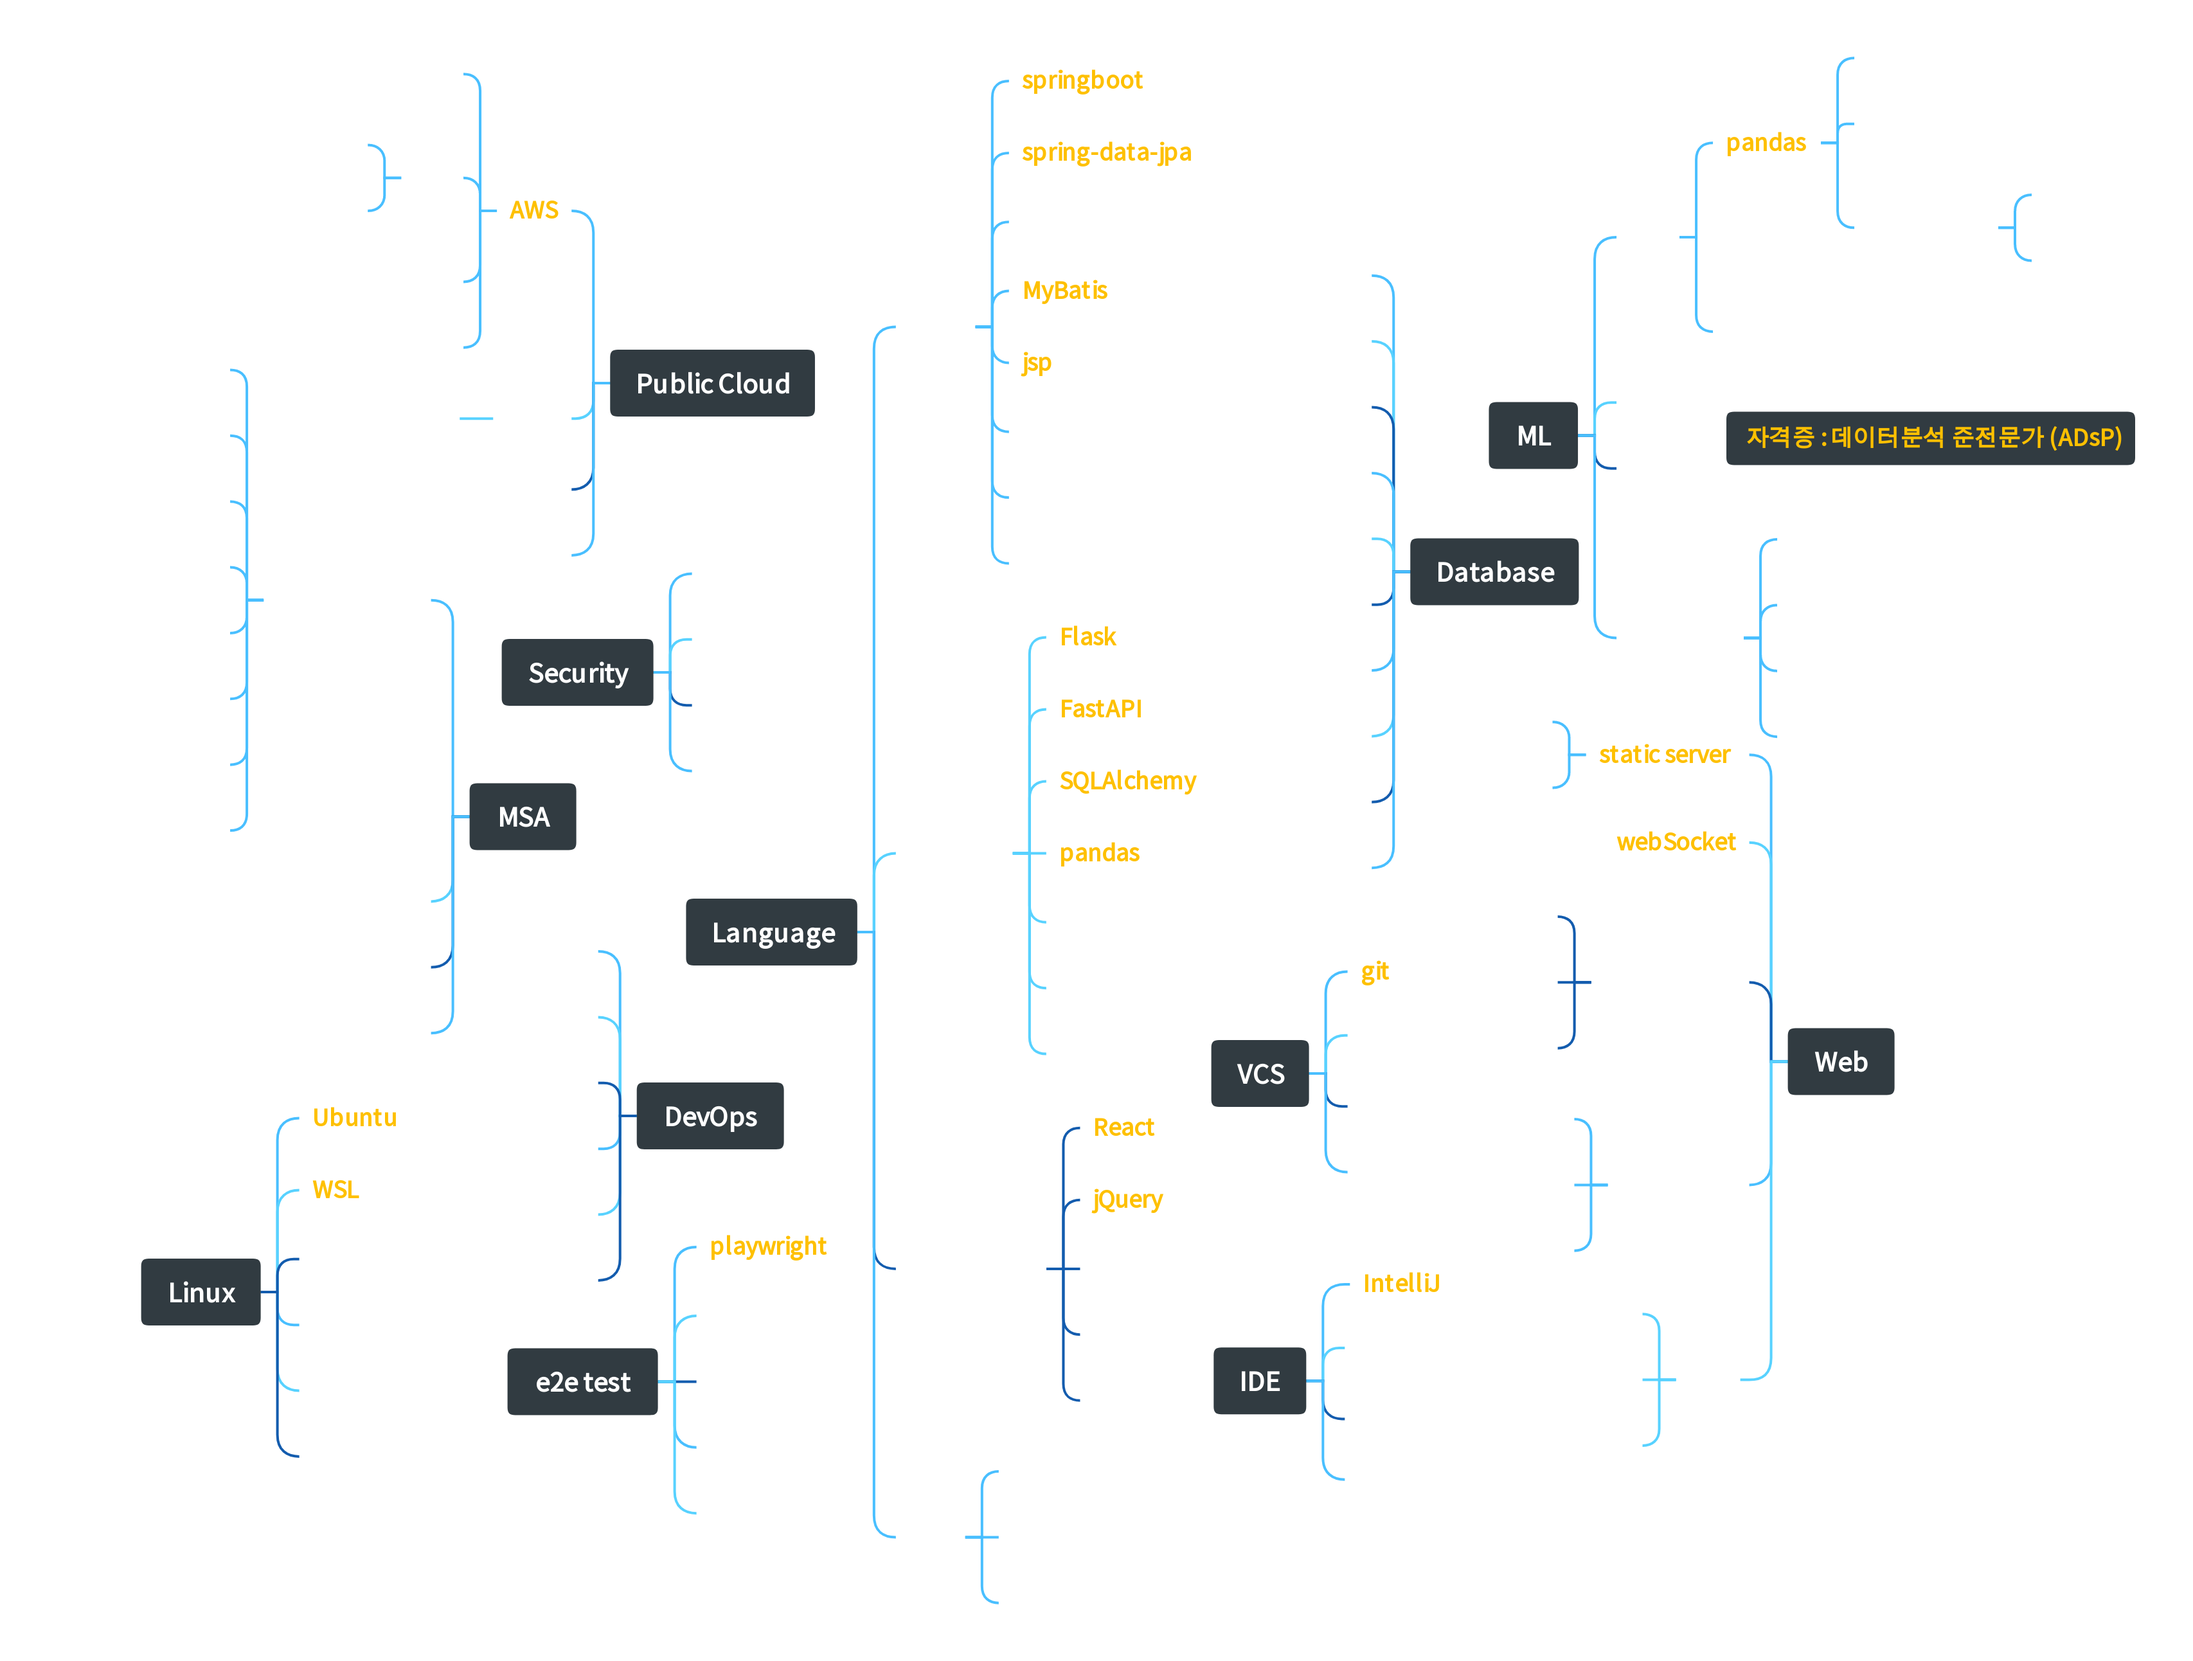
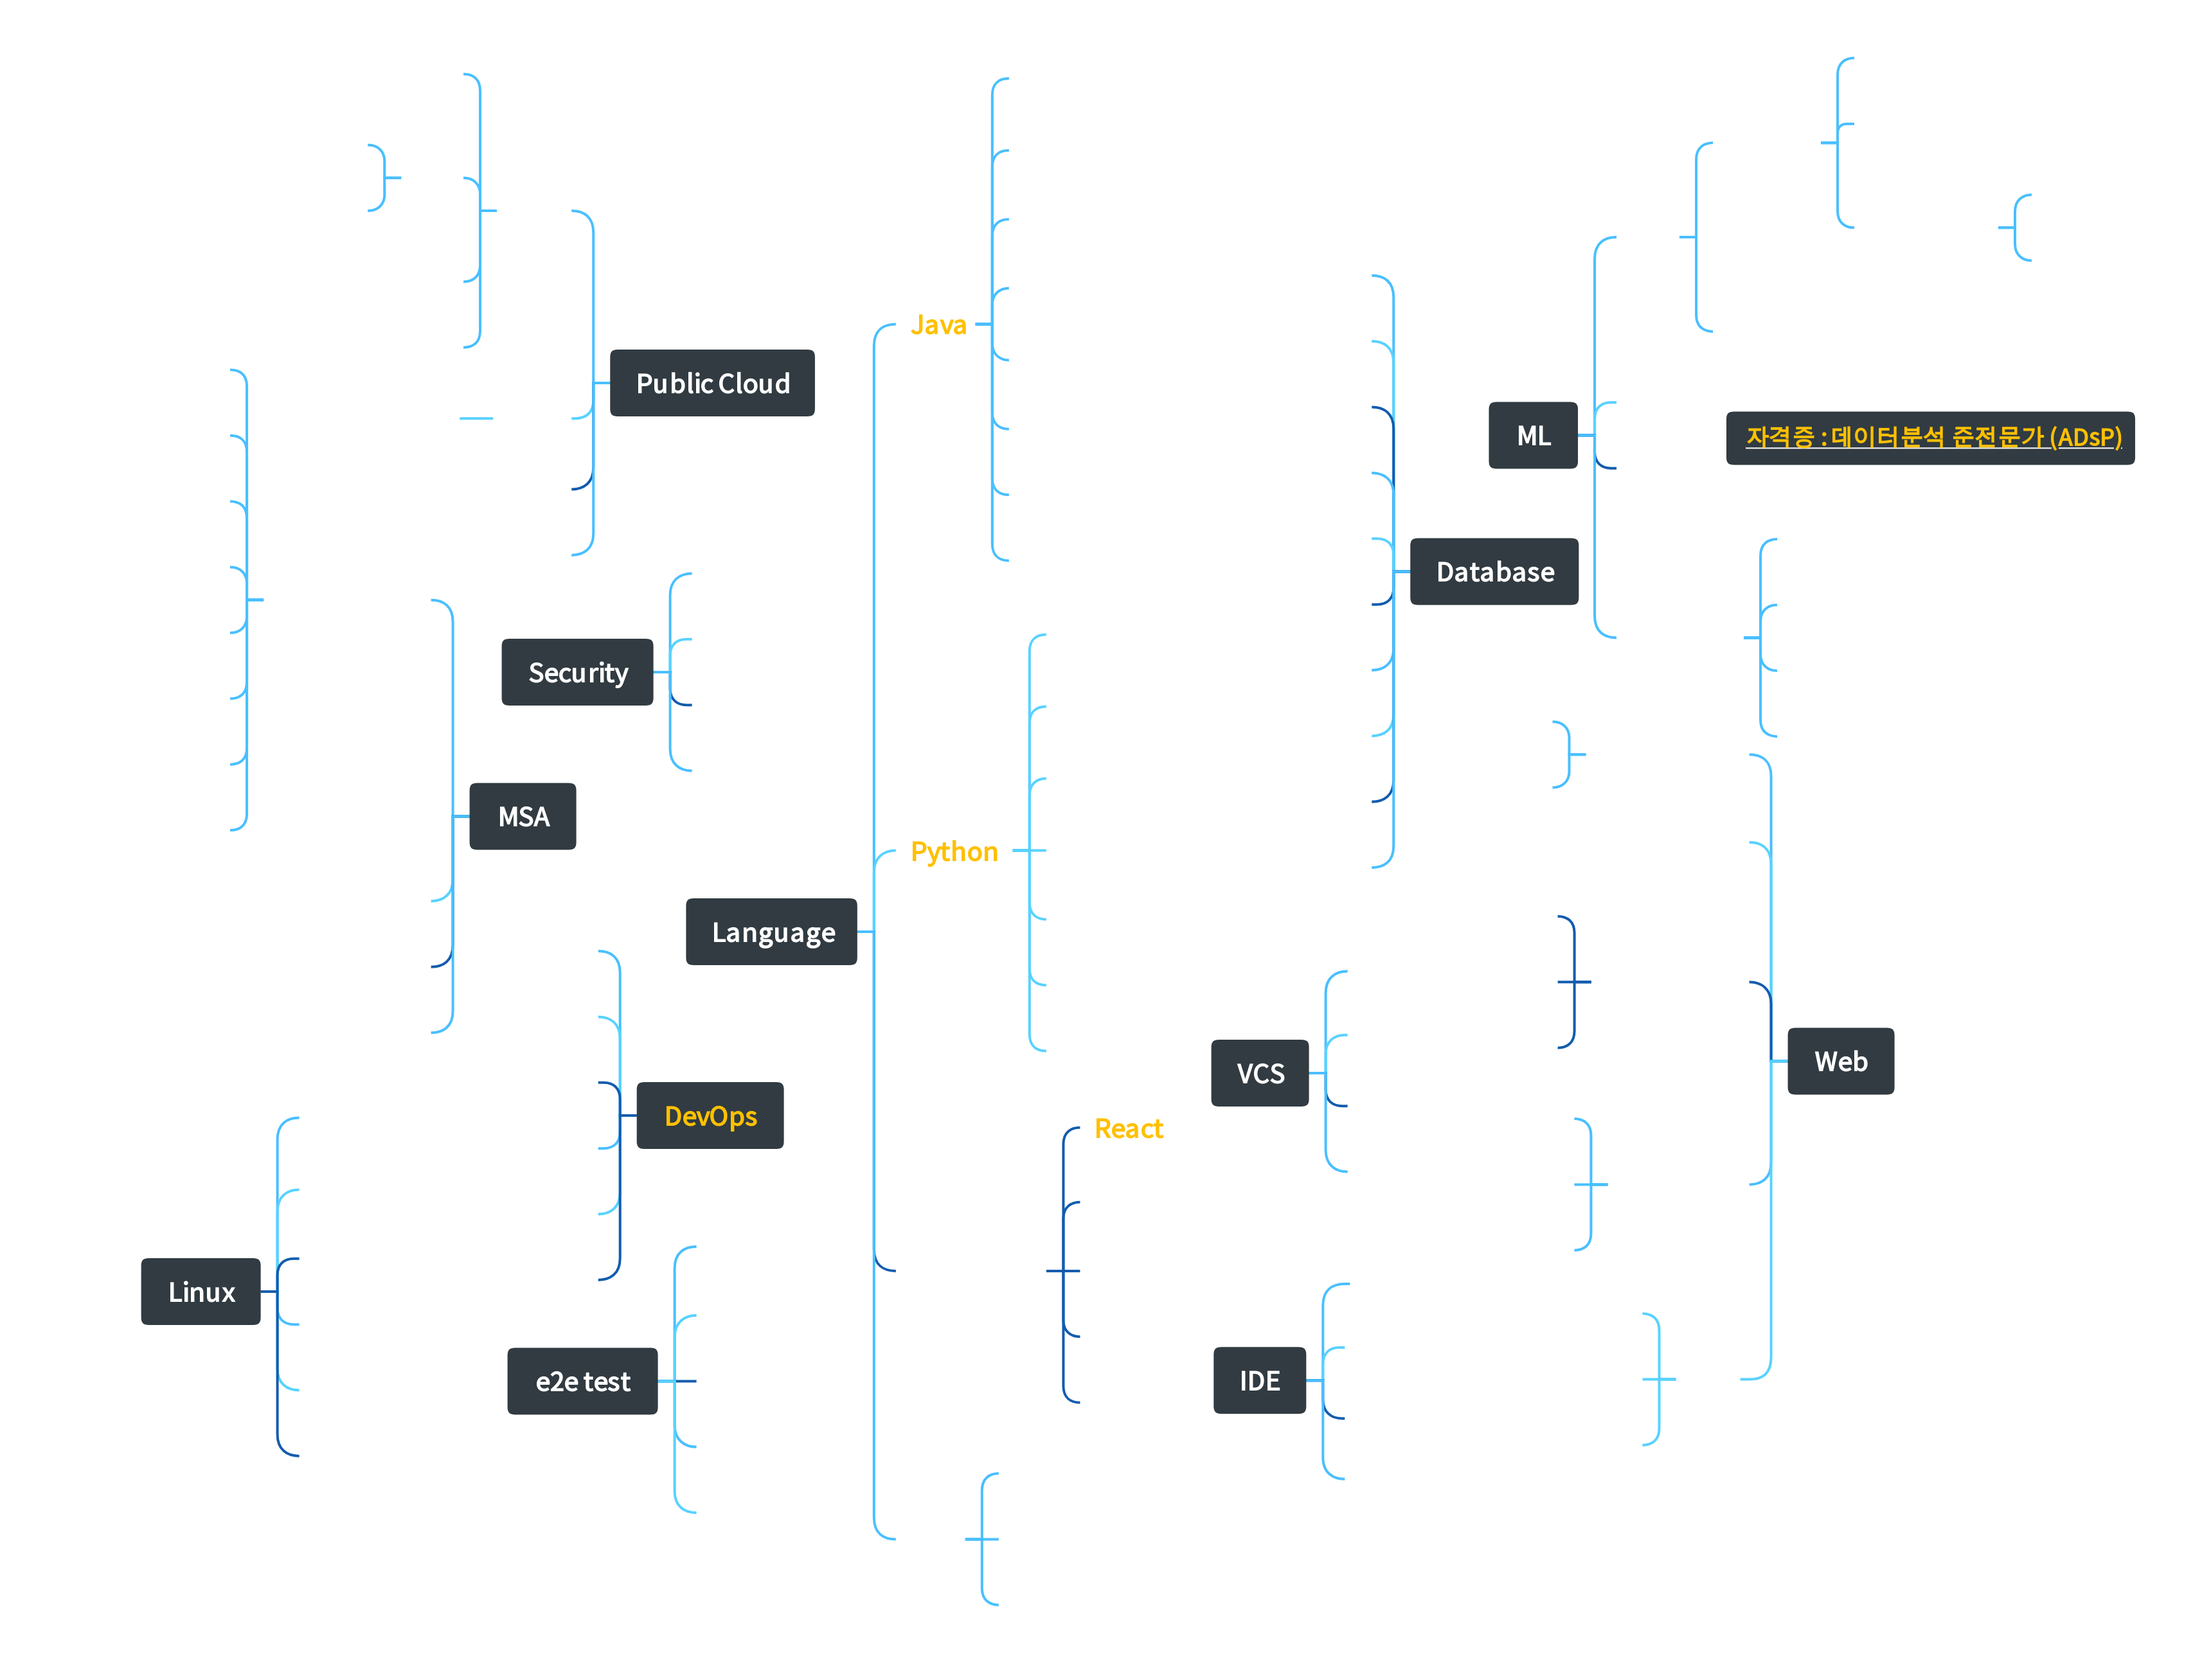
.

diff --git a/edic.py b/edic.py
@@ -7,8 +7,10 @@ import requests
 import urllib3
 import json
 import requests
+from http import HTTPStatus
 from bs4 import BeautifulSoup
 from deep_translator import GoogleTranslator
+from kakaotrans import Translator
 
 urllib3.disable_warnings(urllib3.exceptions.InsecureRequestWarning)
 
@@ -33,6 +35,10 @@ LANGUAGES = {
     "nl": "dutch",
 }
 
+def get_status_message(status_code: int) -> str:
+    status_message = HTTPStatus(status_code).phrase
+    return status_message
+
 
 class DaumTranslator(object):
     """
@@ -56,6 +62,7 @@ class DaumTranslator(object):
             "Accept-Encoding": "gzip, deflate, br",
             "Accept-Language": "ko-KR,ko;q=0.9,en-US;q=0.8,en;q=0.7,la;q=0.6",
         }
+
 
     def translate(
         self,
@@ -99,6 +106,13 @@ class DaumTranslator(object):
         if src == tgt:
             raise ValueError("Source language and Target language cannot be same")
 
+        # from kakaotrans import Translator
+        # DAUM_REST_API_KEY="3abfad9c3630cebd1cc0cb28d0de6751"
+        # translator = Translator()
+        # result = translator.translate(query, src=src, tgt=tgt)
+        # print(result)
+
+
         # Send the POST request
         params = {"queryLanguage": src, "resultLanguage": tgt, "q": query}
         response = requests.post(
@@ -106,8 +120,10 @@ class DaumTranslator(object):
         )
 
         # Check whether the status code is 200
-        if response.status_code != 200:
-            raise Exception("Response Error")
+        status_code = response.status_code
+        if status_code != 200:
+            status_message = get_status_message(status_code)
+            raise Exception(f"Response Error: {self.service_url} -> {status_code}: {status_message}")
 
         translated_lines = response.json()["result"]["output"][0]
 
